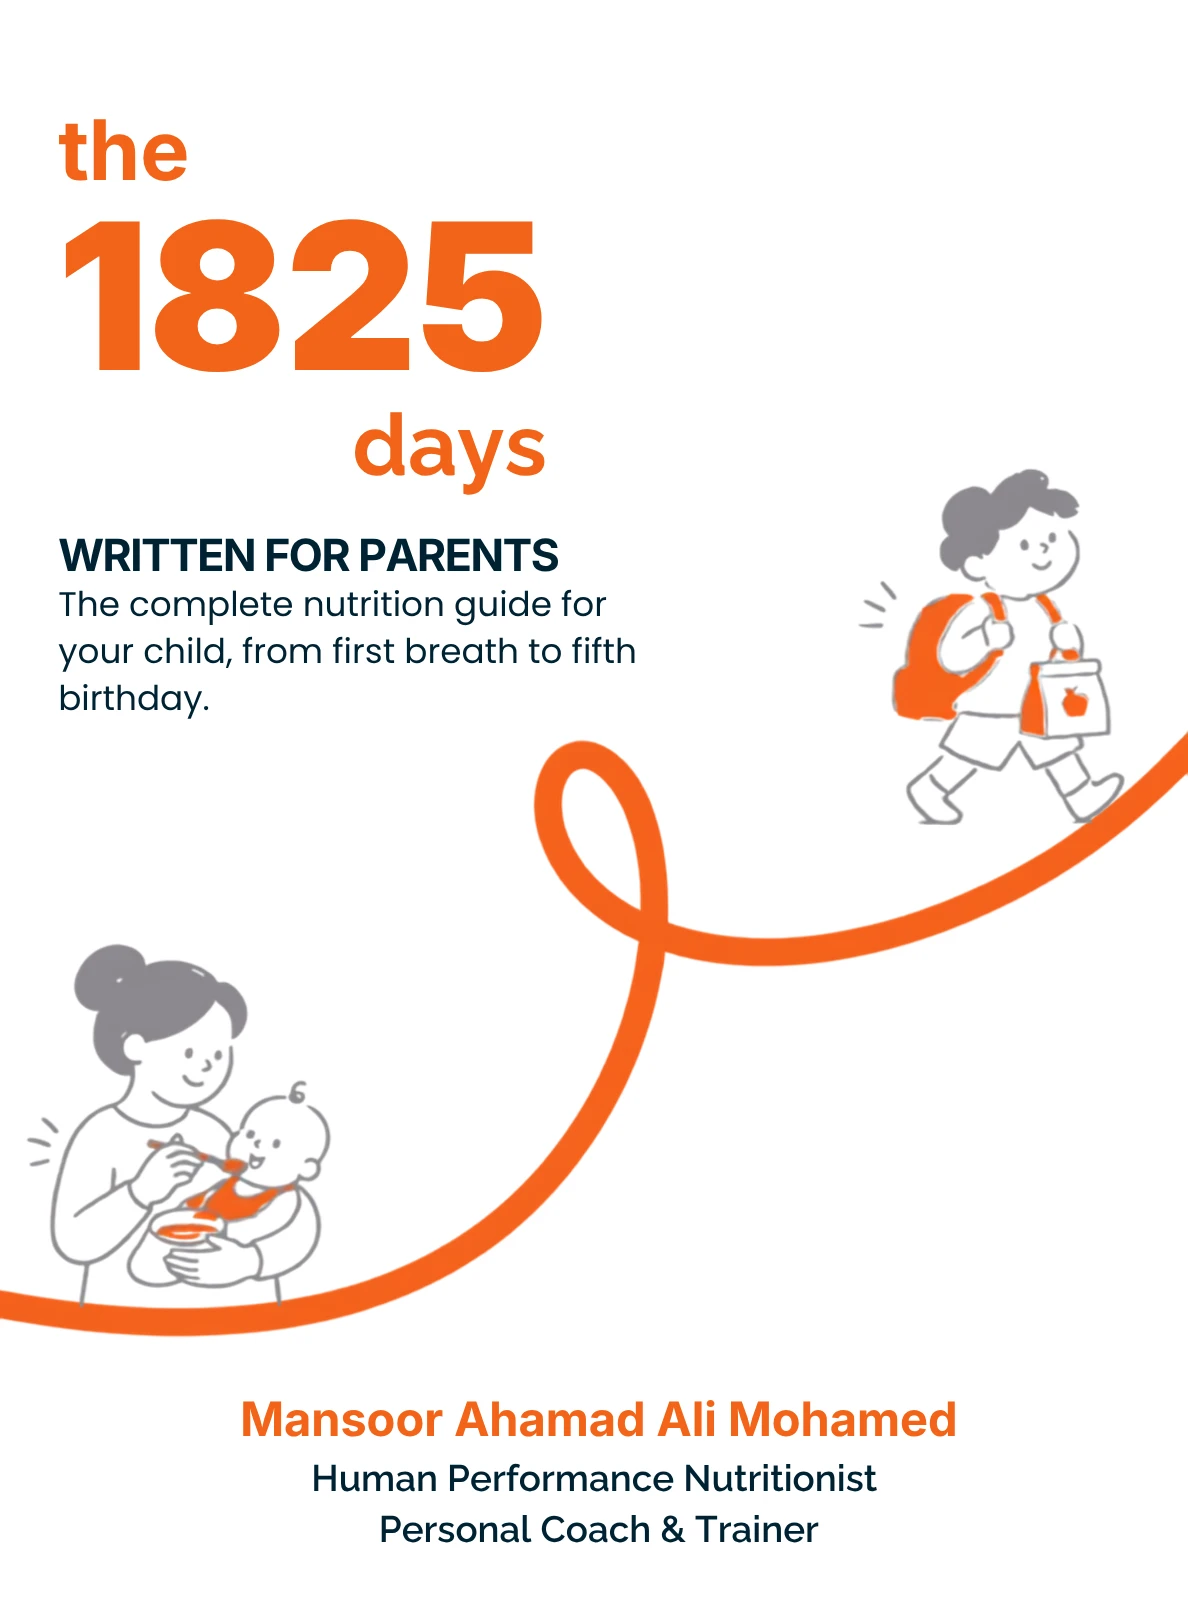
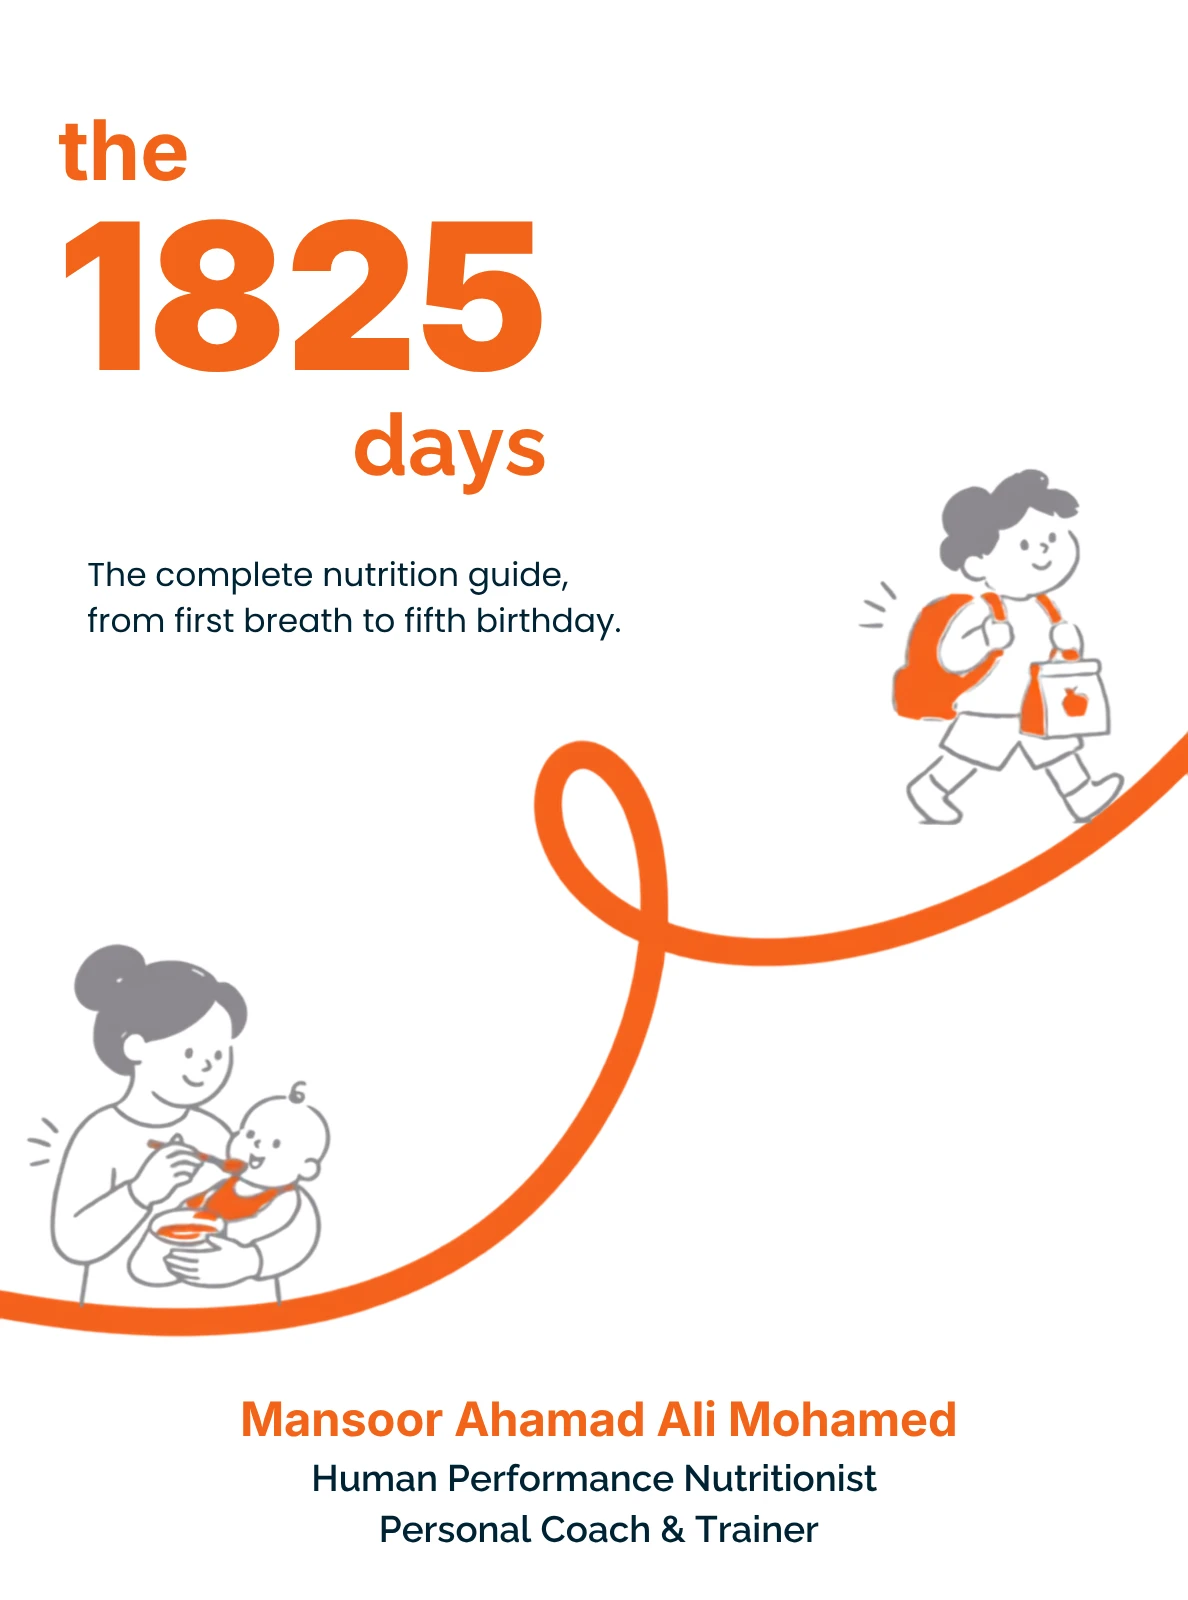
Book section: new WebP cover, remove Coming Soon, add Book in Progress / Written for Parents
- Convert the-1825-days-cover-white.png to WebP (75KB vs 287KB)
- Remove Coming Soon eyebrow above cover image
- Add 'Book in Progress' (orange) and 'Written for Parents' above waitlist form

Changed region(s): [[0.0311, 0.3125, 0.5295, 0.4375]]

diff --git a/index.html b/index.html
@@ -1326,11 +1326,8 @@
       <!-- 2-column layout: left = Coming Soon + cover, right = form.
            Mobile stacks naturally: Coming Soon → cover → form. -->
       <div class="grid grid-cols-1 md:grid-cols-2 gap-10 md:gap-16 items-center">
-      <!-- LEFT block: eyebrow + cover image with parallax -->
+      <!-- LEFT block: cover image with parallax -->
       <div class="text-left">
-        <p class="scene-eyebrow" style="margin-bottom: 24px;">
-          <span class="line-mask"><span class="line-inner">Coming Soon</span></span>
-        </p>
         <div class="wybe-book-cover-frame">
           <img src="images/the-1825-days-cover-white.webp"
                alt="The 1825 Days — the complete nutrition guide for your child"
@@ -1342,6 +1339,8 @@
 
       <!-- RIGHT block: waitlist form -->
       <div class="text-left">
+        <p class="font-sans font-bold text-sm tracking-widest uppercase" style="color:#FF6600; margin-bottom: 4px;">Book in Progress</p>
+        <p class="font-sans text-sm" style="color:#F6F2E8; margin-bottom: 24px;">Written for Parents</p>
         <form id="waitlist-form" data-form data-subject="1825 Days, Waitlist" action="https://api.web3forms.com/submit" method="POST" class="max-w-md space-y-3">
           <input type="hidden" name="access_key" value="9dd51d8a-998b-4b71-bda2-fd22eb6a752a">
           <input type="checkbox" name="botcheck" class="hidden" style="display:none" tabindex="-1" autocomplete="off">
